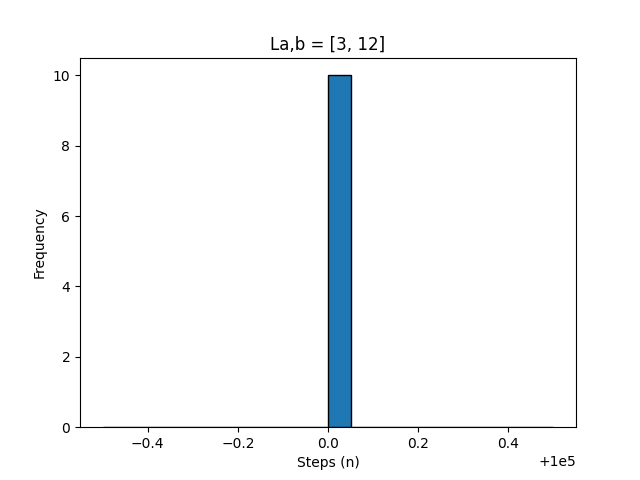
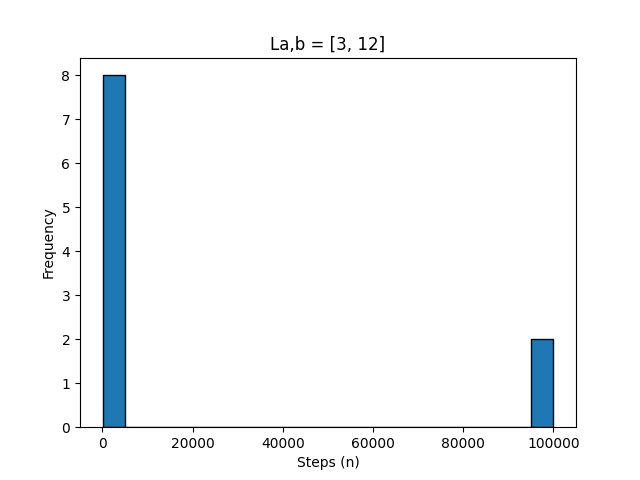
second try answer for partd

diff --git a/129section3/TuringMachine.py b/129section3/TuringMachine.py
@@ -3,22 +3,48 @@ class TuringMachine:
         self.tape = list(f"{A}#{B}#0")
         self.head = 0
         self.state = "init"
-        self.steps = []
-        self.step_count = 0 
-        self.max_steps = 100000  
+        self.step_count = 0
+        self.max_steps = 100_000  # Prevent infinite loops
 
     def transition(self):
+        """Execute state transitions until halt or max_steps."""
         while self.state != "halt" and self.step_count < self.max_steps:
-            self.steps.append("".join(self.tape))
-            self.step_count += 1  
-        return self.steps
+            # Ensure head is within tape bounds (expand tape if needed)
+            if self.head < 0:
+                self.head = 0  # Reset to start
+            elif self.head >= len(self.tape):
+                self.tape.append('0')  # Expand tape to the right
 
-def save_tape(A, B):
-    tm = TuringMachine(A, B)
-    steps = tm.transition()
-    filename = f"{A}_{B}.dat"
-    with open(filename, "w") as f:
-        f.write("\n".join(steps))
+            current_symbol = self.tape[self.head]
+
+            # State transition logic (example)
+            if self.state == "init":
+                if current_symbol == '#':
+                    self.state = "read_B"
+                self.head += 1
+
+            elif self.state == "read_B":
+                if current_symbol == '1':
+                    self.state = "add_A"
+                elif current_symbol == '#':
+                    self.state = "halt"  # End of B
+                self.head += 1
+
+            elif self.state == "add_A":
+                self.tape[self.head] = 'X'  # Mark processed bit
+                self.state = "shift_A"
+                self.head += 1
+
+            elif self.state == "shift_A":
+                self.head -= 1  # Move back to A
+                if self.head < 0:  # Prevent underflow
+                    self.head = 0
+                self.state = "read_B"
+
+            self.step_count += 1
+
+        return self.step_count
+
 if __name__ == "__main__":
     save_tape("101001010111", "101000101")
     save_tape("101111", "101001")
